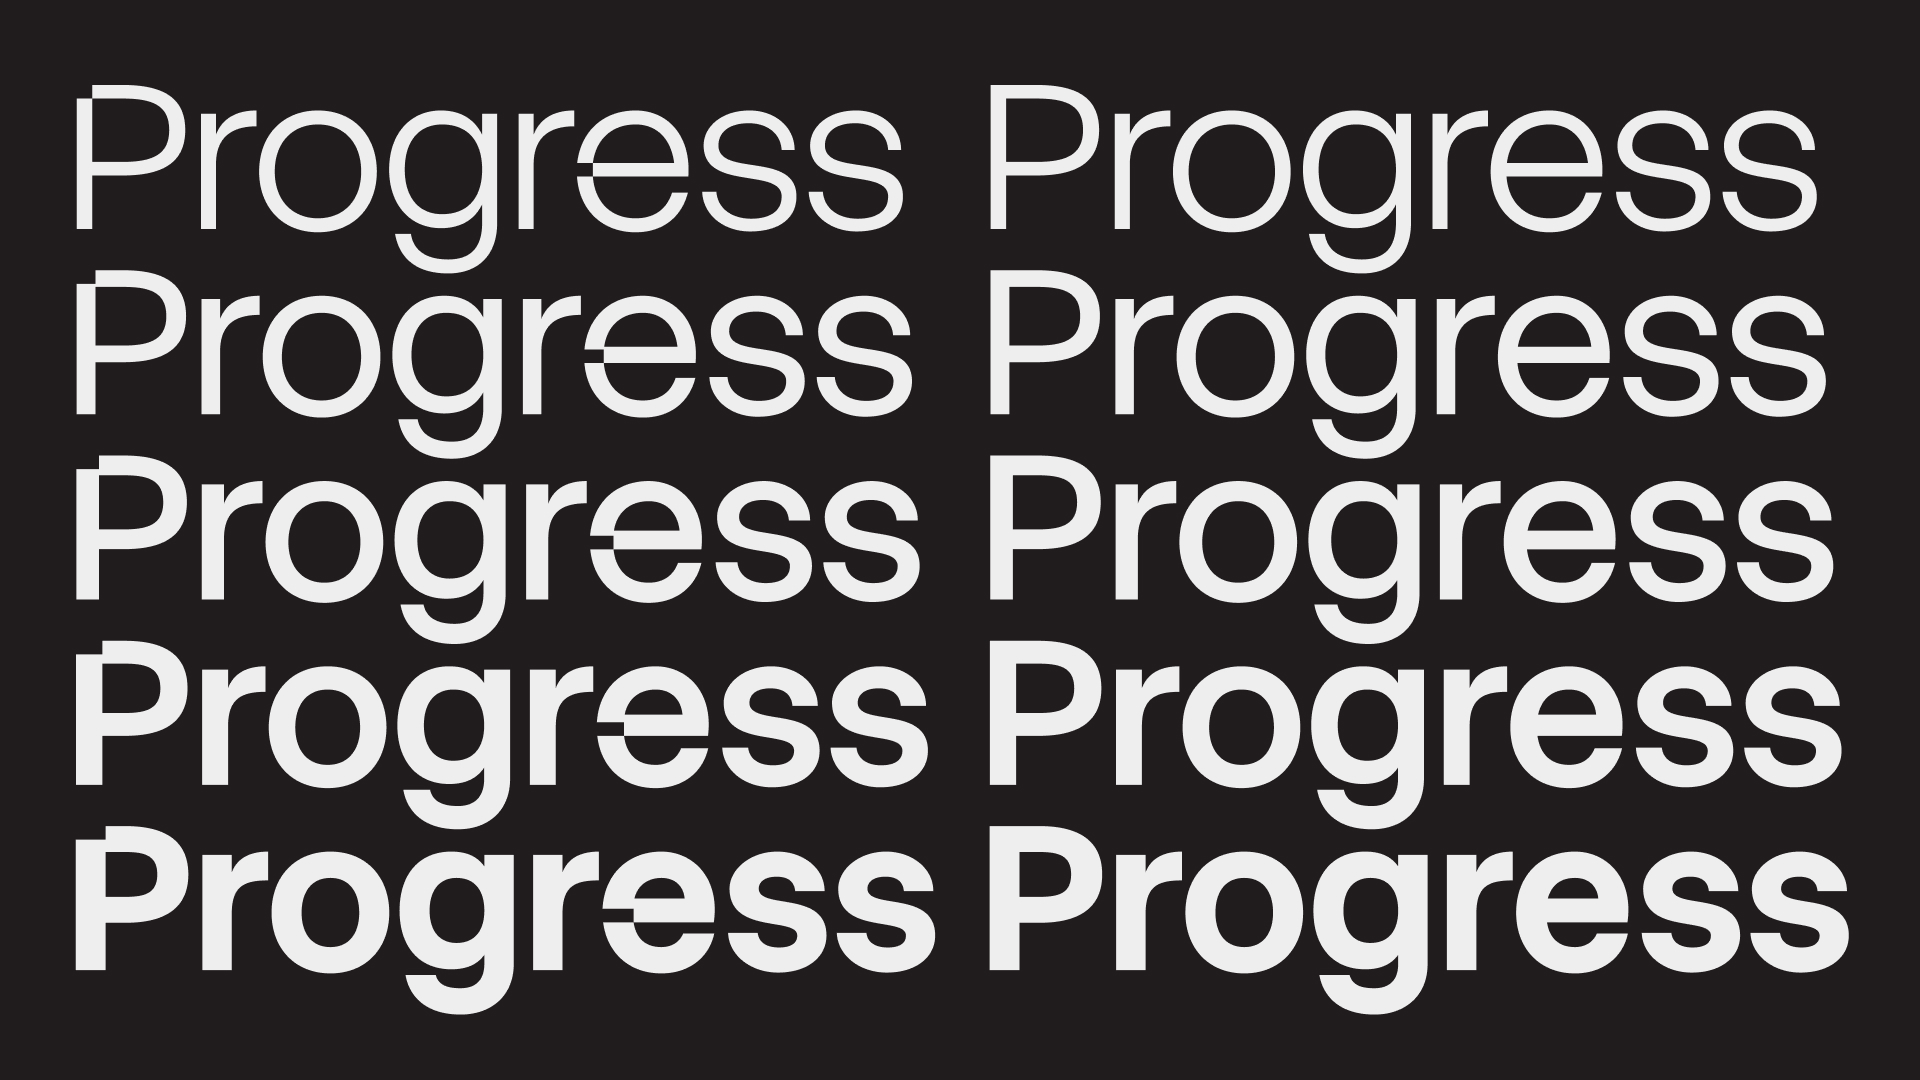
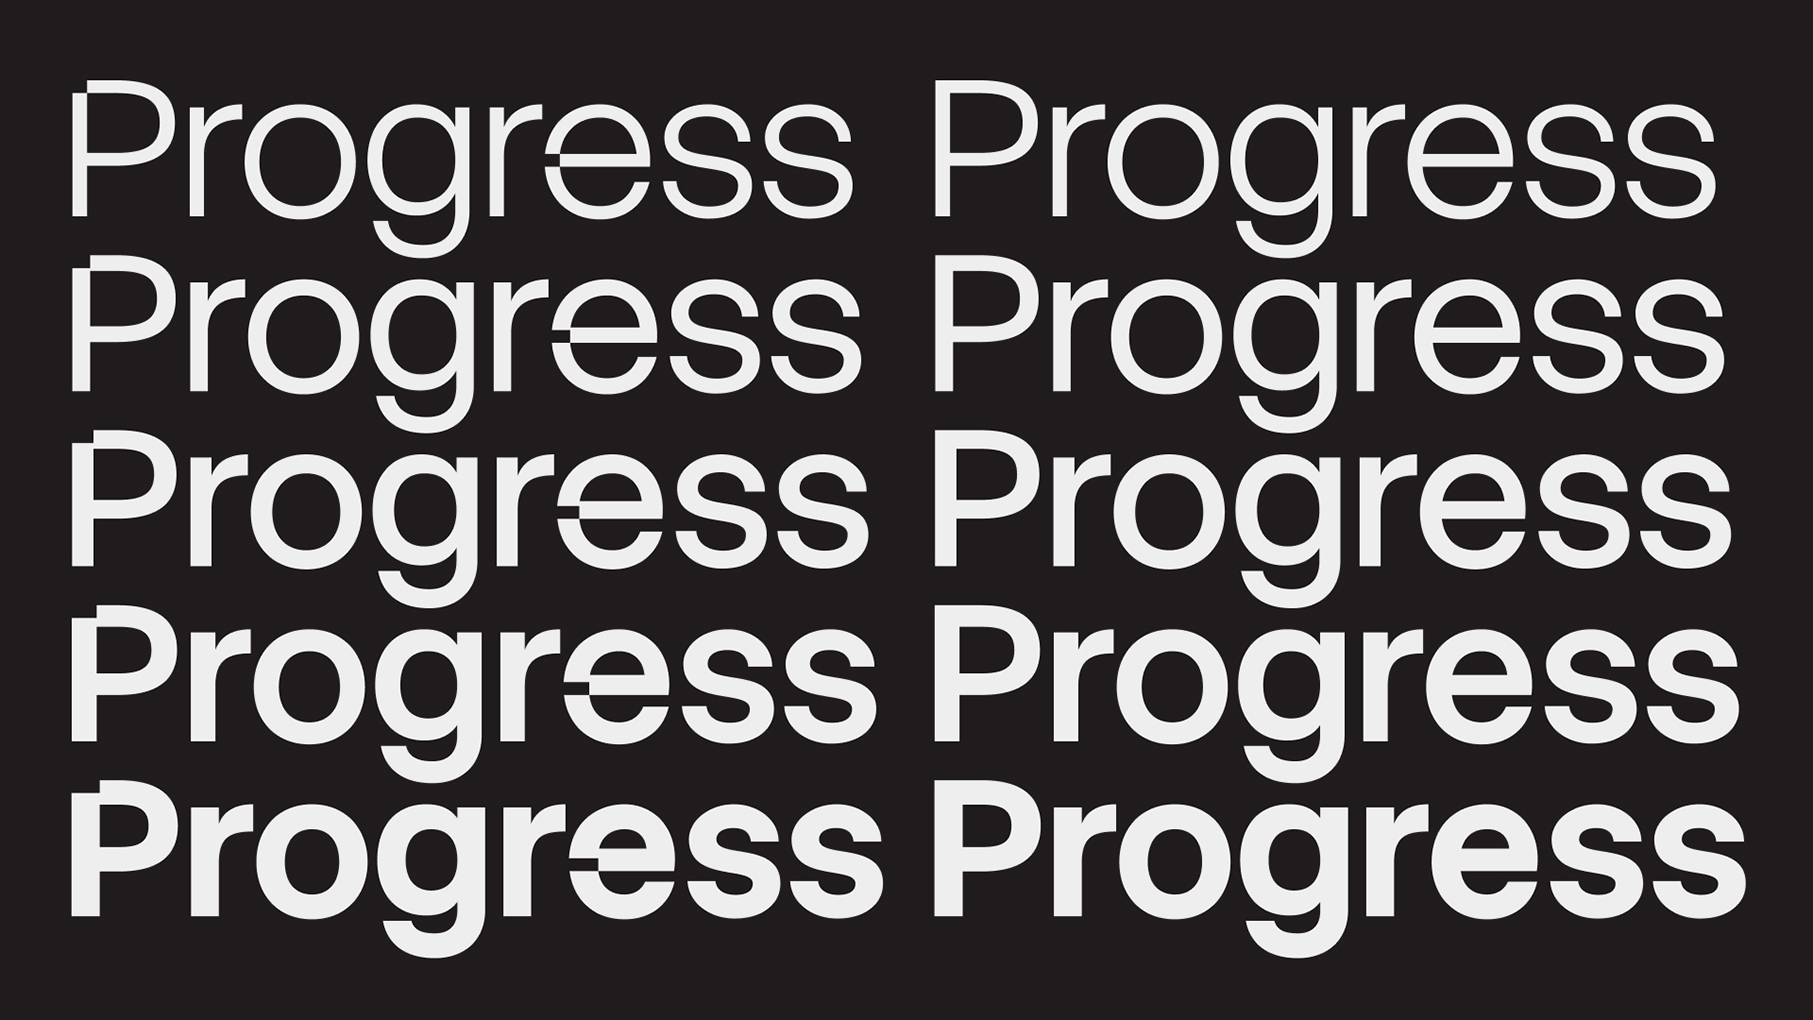
complete article

diff --git a/documentation/ARTICLE.en_us.html b/documentation/ARTICLE.en_us.html
@@ -1,12 +1,12 @@
 <p>
-    Please add a text describing the font here, 100 chracters or more, but no more than 500 words.
-    See https://googlefonts.github.io/gf-guide/description.html for further reference.
-    Please make sure that HTML characters are properly encoded. ('&' becomes &amp; etc.)
-    If unsure, use https://www.freeformatter.com/html-escape.html for formatting. (Use "Escape HTML").
+    Stack Sans is a sans serif font family rooted in modernist inspiration, striking a balance between timelessness and innovation. Its distinctive notched detailing, inspired by the building process, creates a recognizable signature that is unique to Stack Sans. Crafted uniquely for Stack Overflow, Stack Sans has both a hedline and text style that allow for typographic expression regardless of scale.
 </p>
+
 <p>
-    Could be several paragraphs, also.
+    To contribute, see <a href="https://github.com/DylanYoungKoto/Stack-Sans">github.com/DylanYoungKoto/Stack-Sans</a>.
 </p>
-<p>
-    To contribute, see <a href="https://github.com/youruseraccount/yourrepository">github.com/youruseraccount/yourrepository</a>.
-</p>
+
+<img src="stacksans01.jpg">
+<img src="stacksans02.jpg">
+<img src="stacksans03.jpg">
+<img src="stacksans04.jpg">
